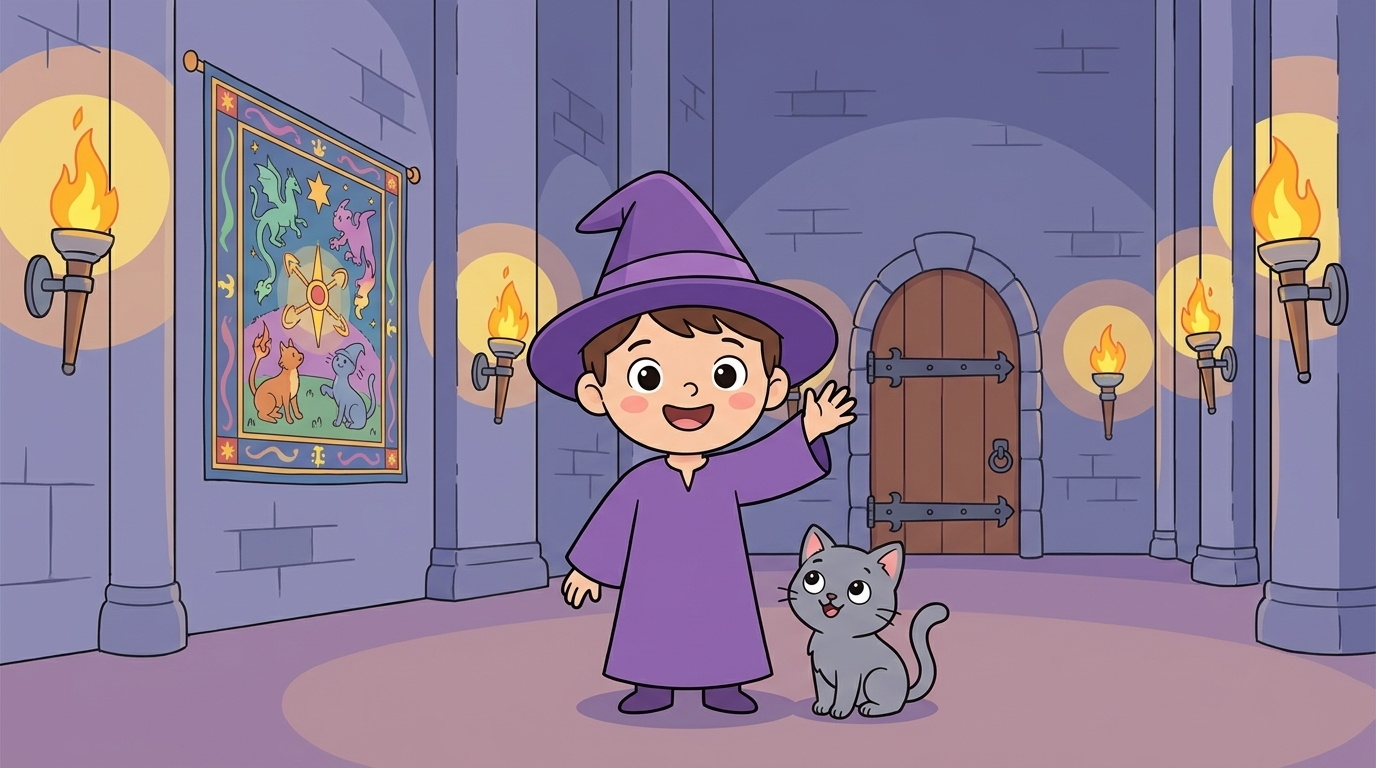
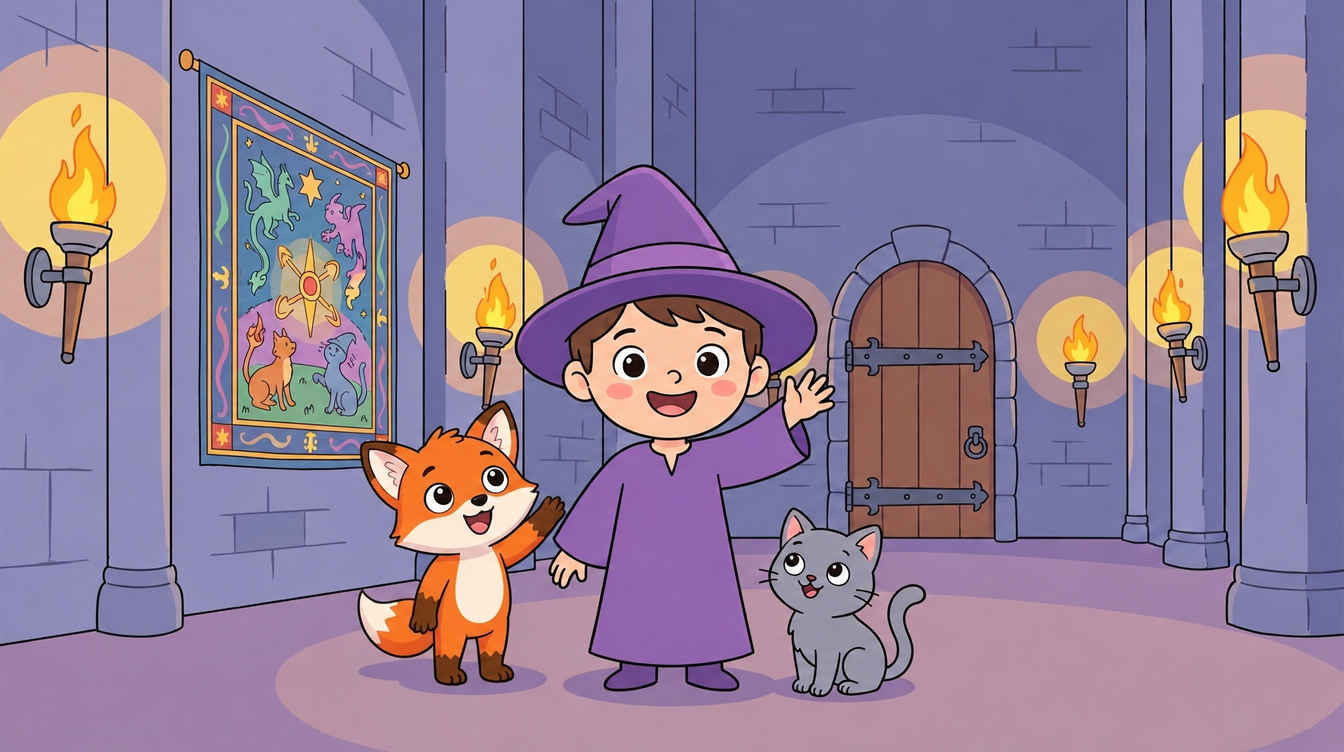
Add Pip to the title card and regenerate scene 3 as a real castle exterior
Title card ("MAGIC CASTLE: WHERE IS IT?") previously showed only Wim and
Cat-cat; regenerated with Pip standing alongside them (left-to-right: Pip,
Wim, Cat-cat), matching his established look from the intro cinematic.
Composited via GPT Image 2.5 using both the original title art and Pip's
reference image so the door/tapestry/torches/Wim/Cat-cat stayed unchanged.

Scene 3's "Castle!" reveal (mc-setting-castle) reused the same interior
hallway background already shown twice by that point in the lesson — not
an actual castle building, reported live as needing to be "a real
castle." Regenerated as a proper castle exterior (towers, battlements,
moat, drawbridge) at dusk, composed with the castle filling the left
two-thirds of the frame and open sky on the right third; textSide set
explicitly to 'right' so the word renders over that open space, matching
the exact "castle on the left, word on the right" request.

bgWide (the old hallway image) is left untouched — it's still reused by
the storybook chapters and hello-doors scenes later in this lesson.

diff --git a/src/content/playground-library/magic-castle/scenes.ts b/src/content/playground-library/magic-castle/scenes.ts
@@ -138,8 +138,19 @@ export type { CharKey, Scene };
 export { CAST, VOICE_KEY };
 
 const M = '/magic-castle';
+// Regenerated per direct request: now shows Pip standing alongside Wim and
+// Cat-cat (previously just the two of them), same hallway/door/tapestry
+// composition. Nothing else references this file, so it was updated in
+// place rather than introducing a second near-duplicate title image.
 const bgTitle = `${M}/scenes/bg-castle-title.png`;
+// bgWide is reused by several OTHER scenes below (the storybook chapters,
+// hello-doors) that depend on its hallway/door composition specifically —
+// left untouched. mc-setting-castle's own "Castle!" reveal gets its own
+// new bgCastleExterior instead (see that scene), regenerated per direct
+// request: the old bgWide was just the same interior hallway already
+// shown twice by this point, not an actual castle building.
 const bgWide = `${M}/scenes/bg-castle-wide.png`;
+const bgCastleExterior = `${M}/scenes/bg-castle-exterior.png`;
 const bgDoorPip = `${M}/scenes/bg-castle-door-pip.png`;
 const bgWim = `${M}/scenes/bg-castle-wim.png`;
 const bgCatcat = `${M}/scenes/bg-castle-catcat.png`;
@@ -210,7 +221,12 @@ export const LESSON_A1U9L1_SCENES: Scene[] = [
     cta: '\u{1F6AA} OPEN THE DOOR!',
   },
 
-  { id: 'mc-setting-castle', kind: 'echo', bg: bgWide, who: 'pip', teacher: 'Shh... listen! Creaky floors, flickering torches, echoing halls! We found somewhere old and magical.', word: 'Castle!' },
+  // bgCastleExterior is composed with the castle filling the left ~2/3 of
+  // the frame and open sky on the right — textSide explicitly set to
+  // 'right' (matches the default, but stated directly per the exact
+  // "castle on the left, word on the right" request rather than relying
+  // silently on EchoScene's fallback).
+  { id: 'mc-setting-castle', kind: 'echo', bg: bgCastleExterior, who: 'pip', textSide: 'right', teacher: 'Shh... listen! Creaky floors, flickering torches, echoing halls! We found somewhere old and magical.', word: 'Castle!' },
 
   { id: 'mc-meet-wim', kind: 'meet', bg: bgWim, who: 'wim', teacher: 'Tap Wim to meet the castle wizard!', line: 'Hello! I am Wim. I am a wizard!', repeat: 'I am a wizard!' },
   { id: 'mc-meet-catcat', kind: 'meet', bg: bgCatcat, who: 'catcat', teacher: 'Here is Wim’s magical friend! Tap Cat-cat to say hi.', line: 'Meow! I am Cat-cat. I am a cat!', repeat: 'I am a cat!' },
